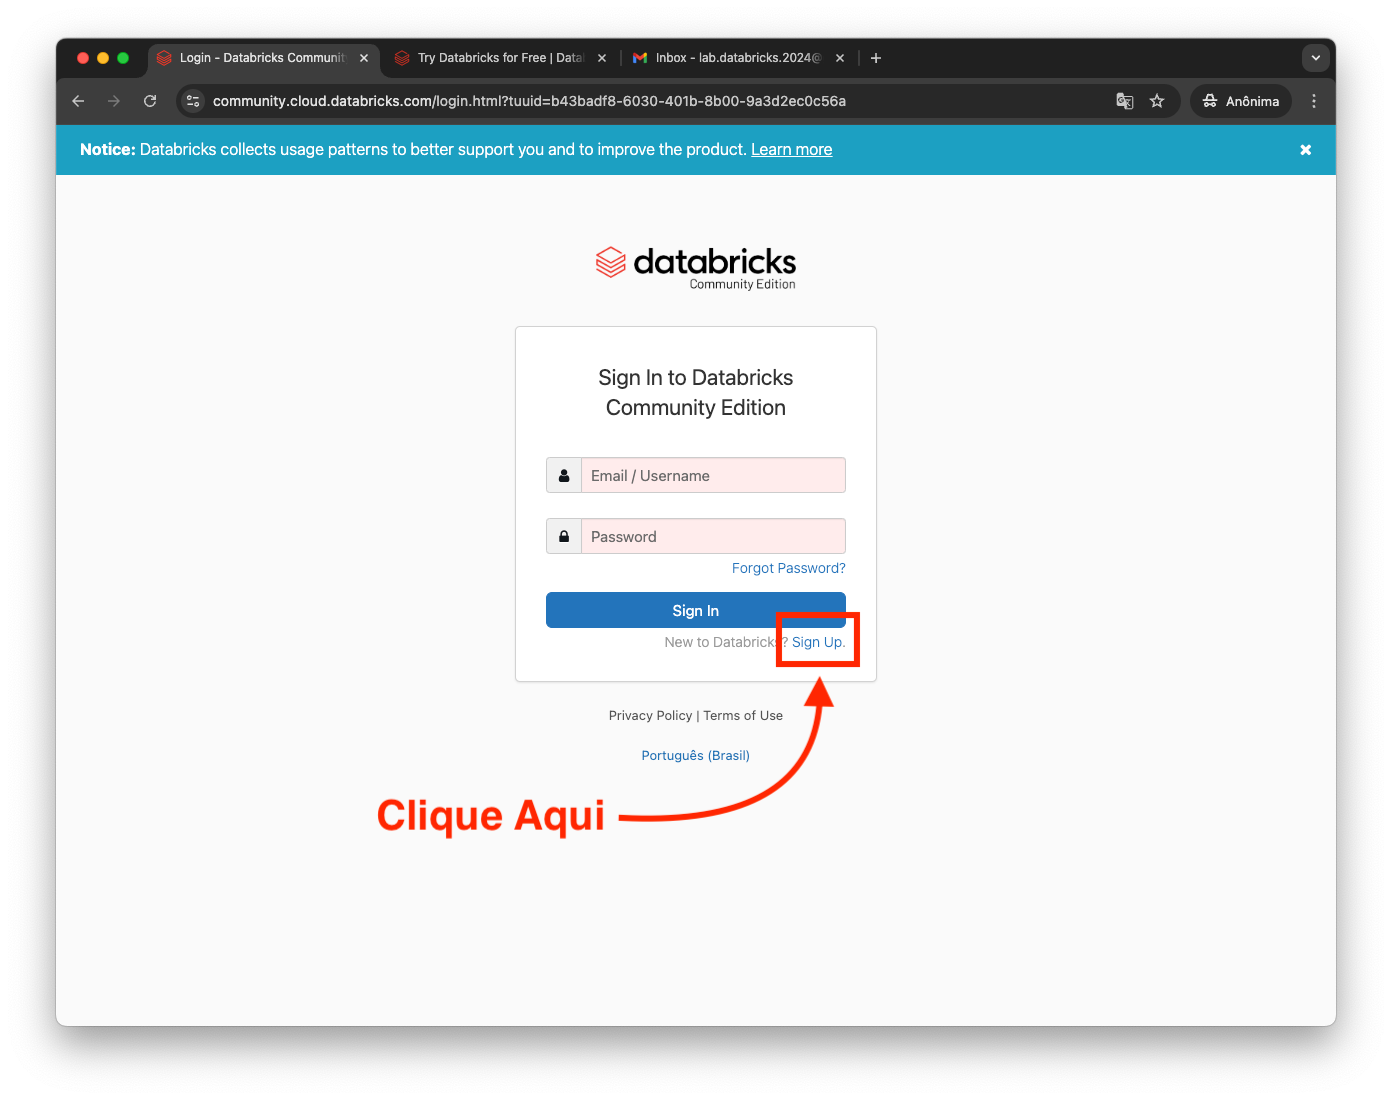
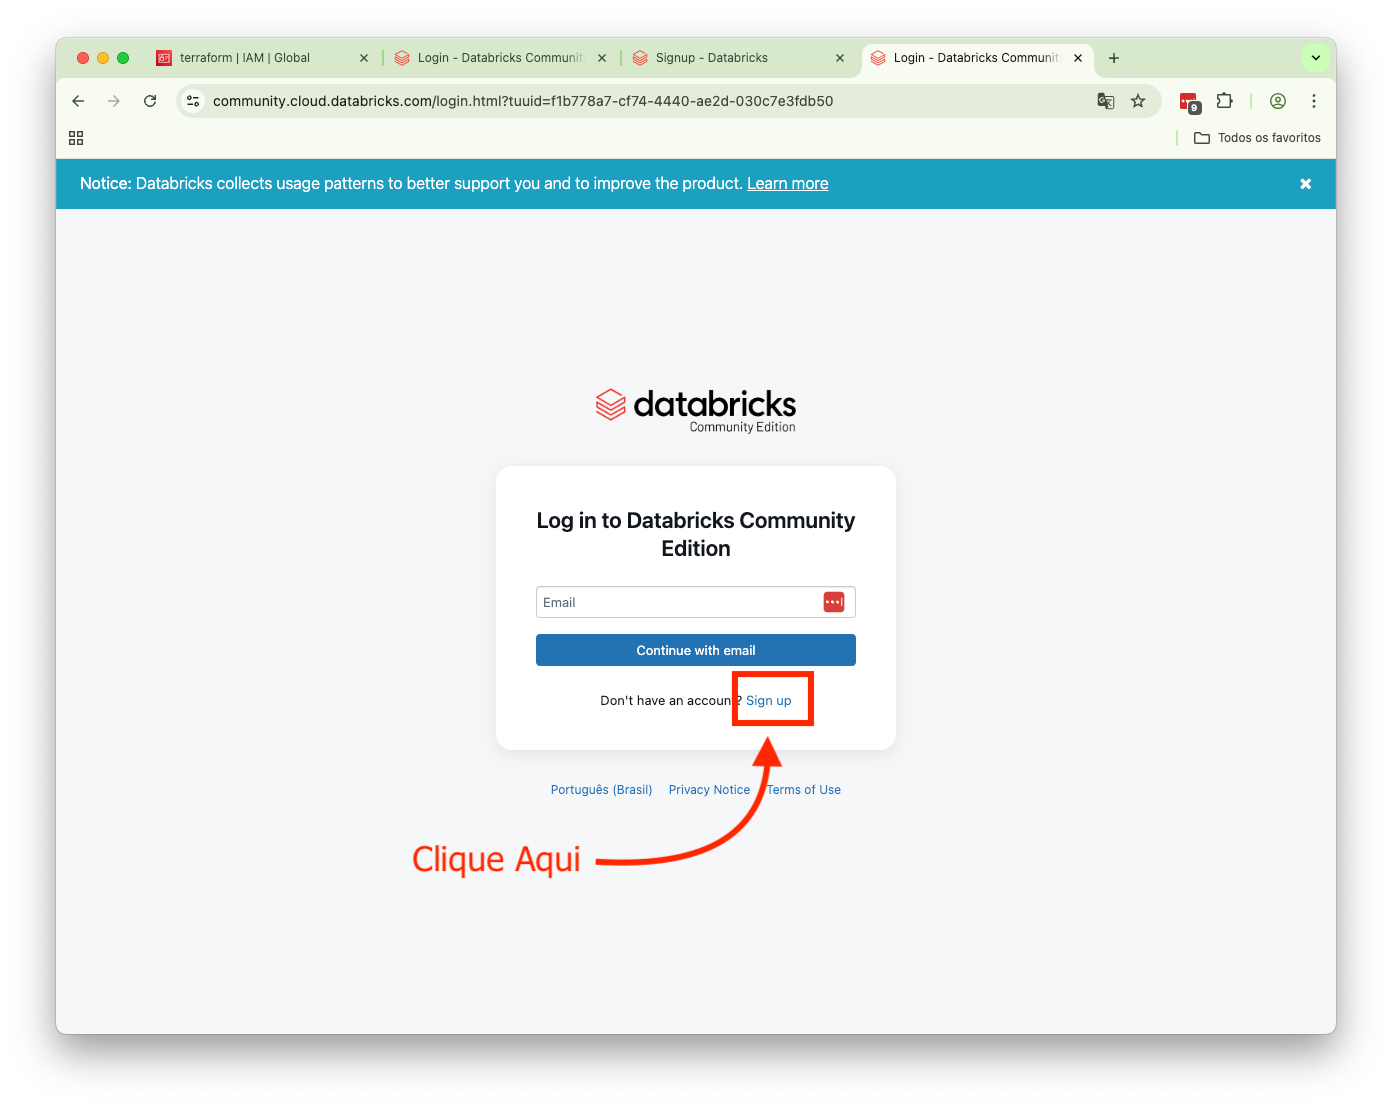
Atualizando o passo a passo para criar um usuário na Databricks

Changed region(s): [[0.0309, 0.0309, 0.9576, 0.2782], [0.278, 0.4327, 0.6178, 0.8036], [0.4325, 0.34, 0.5869, 0.4018]]

diff --git a/31.Spark-Databricks/00-passo-a-passo.md b/31.Spark-Databricks/00-passo-a-passo.md
@@ -17,21 +17,23 @@ A seguir, um guia passo a passo para a criação de uma conta no Databricks Comm
 
 ![02-login.png](imagens%2Fnew-user%2F02-login.png)
 
-### 3. Preencher os Dados de Cadastro
+### 3. Informar o nome da organização
 
-- **Insira suas informações pessoais:**
-    - Preencha os campos obrigatórios e clique em `Continue`.
+- **Insira o próprio e-mail:**
 
-![03-try-databricks-free.png](imagens%2Fnew-user%2F03-try-databricks-free.png)
+![04-passo-organizacao.png](imagens/new-user/04-passo-organizacao.png)
 
-### 4. Escolha uma Opção
+### 4. Informar a localização
 
-- **Escolha a opção para a versão gratuita:**
-    - Na tela de escolha de provedor de nuvem, selecione `Get started with Community Edition`.
+- **Será apresentada a tela abaixo:**
 
-![04-choose-a-cloud-provider.png](imagens%2Fnew-user%2F04-choose-a-cloud-provider.png)
+![05-localizacao.png](imagens/new-user/05-localizacao.png)
 
-### 5. Validação Captcha
+- **Escolher a localização Brazil**
+
+![06-localizacao-brazil.png](imagens/new-user/06-localizacao-brazil.png)
+
+### 5. Iniciar o Desafio Captcha
 
 - **Validação para verificar se você não é um robô:**
     - Complete o desafio Captcha solicitado:
@@ -43,35 +45,22 @@ A seguir, um guia passo a passo para a criação de uma conta no Databricks Comm
 - **Ajuste o Captcha conforme instruído:**
     - Direcione o avião na mesma direção que a mão aponta.
 
-![07-protecting-account.png](imagens%2Fnew-user%2F07-protecting-account.png)
+(No meu caso foi este 😀)
 
-### 7. Confirmação por Email
+![07-desafio.png](imagens/new-user/07-desafio.png)
 
-- **Verifique seu email para o link de confirmação:**
-    - Você receberá um email de boas-vindas:
+![08-desafio.png](imagens/new-user/08-desafio.png)
 
-![08-email-welcome-to-databricks.png](imagens%2Fnew-user%2F08-email-welcome-to-databricks.png)
+- **Será apresentada a tela abaixo sinalizando que vc venceu o desafio:**
 
-### 8. Ativação da Conta
+![09-desafio.png](imagens/new-user/09-desafio.png)
 
-- **Clique em `this link` para ativar sua conta:**
-    - Ou copie e cole o link fornecido no navegador.
-
-![09-email-welcome-to-databricks.png](imagens%2Fnew-user%2F09-email-welcome-to-databricks.png)
-
-### 9. Definir Senha
-
-- **Escolha e defina uma senha segura para sua conta:**
-    - Preencha a senha e clique em `Reset password`.
-
-![10-reset-password.png](imagens%2Fnew-user%2F10-reset-password.png)
-
-### 10. Acesso ao Workspace
+### 7. Acesso ao Workspace
 
 - **Bem-vindo ao Databricks!**
     - Após definir a senha, você será redirecionado ao workspace principal:
 
-![12-workspace.png](imagens%2Fnew-user%2F12-workspace.png)
+![10-workspace-home.png](imagens/new-user/10-workspace-home.png)
 
 ## Navegação
 - [README](README.md)
